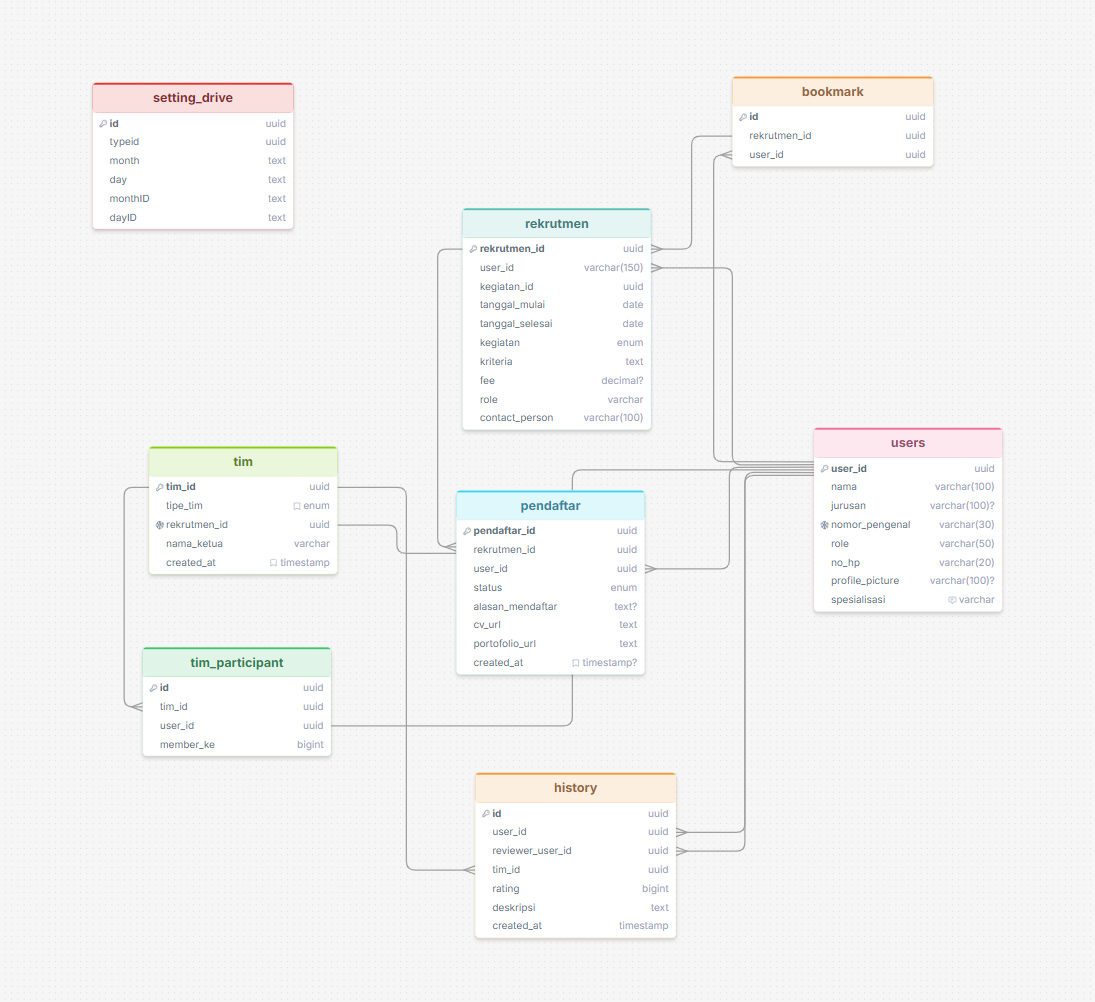
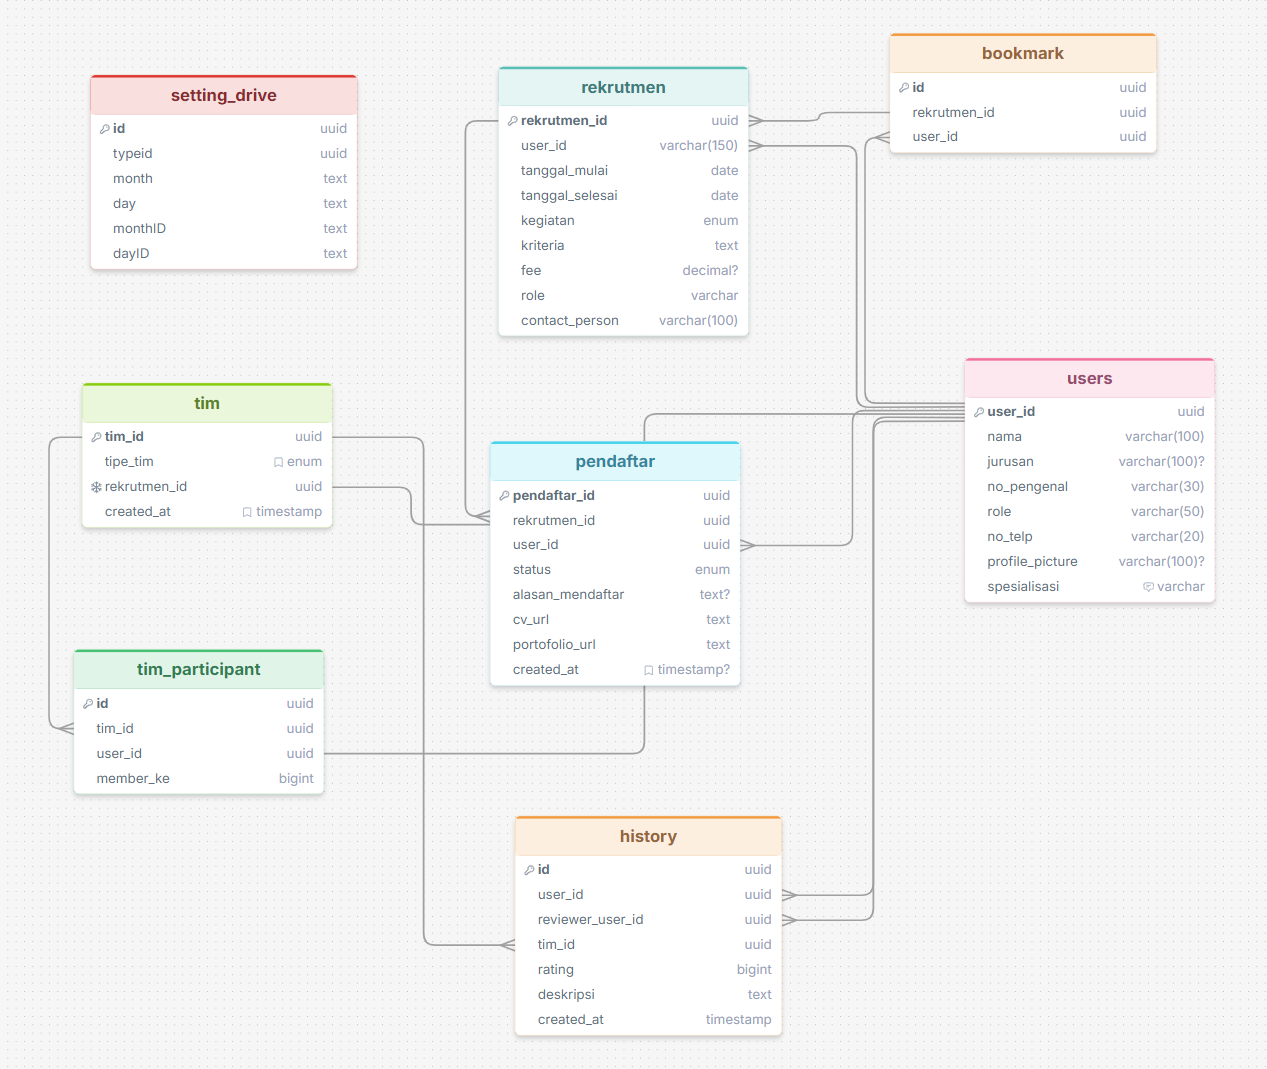
fix : routes logic

diff --git a/internal/routes/routes.go b/internal/routes/routes.go
@@ -45,6 +45,9 @@ func SetupRoutes(r *gin.Engine, userHandler handlers.UserHandler, rekrutmenHandl
 
 	// contoh : GET /rekrutmen?page=1&limit=10&kegiatan=riset&role=backend&q=java
 	r.GET("/api/rekrutmen", rekrutmenHandler.GetAll)
+	// .GET("/sort/type/:type", rekrutmenHandler.GetByType)
+	r.GET("/sort/type/:type", rekrutmenHandler.GetByType)
+	r.GET("/sort/role/:role", rekrutmenHandler.GetByRole)
 
 	api := r.Group("/api")
 	api.Use(middleware.AuthMiddleware())
@@ -90,10 +93,10 @@ func SetupRoutes(r *gin.Engine, userHandler handlers.UserHandler, rekrutmenHandl
 			rekrutmen.GET("/:id", rekrutmenHandler.GetByID)
 
 			// sort / filter rekrutmen berdasarkan tipe kegiatan, (projek, riset, lomba)
-			rekrutmen.GET("/sort/type/:type", rekrutmenHandler.GetByType)
+			// rekrutmen.GET("/sort/type/:type", rekrutmenHandler.GetByType)
 
 			// sort / filter rekrutmen berdasarkan role
-			rekrutmen.GET("/sort/role/:role", rekrutmenHandler.GetByRole)
+			// rekrutmen.GET("/sort/role/:role", rekrutmenHandler.GetByRole)
 
 			// apply //
 			// id = rekrutmen_id
